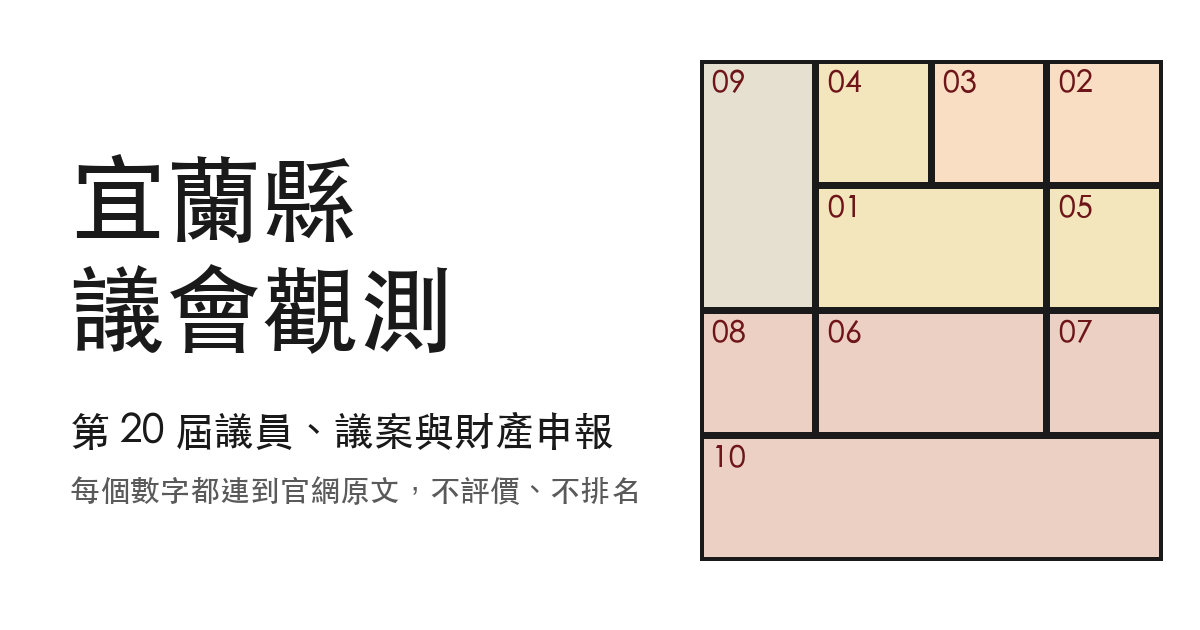
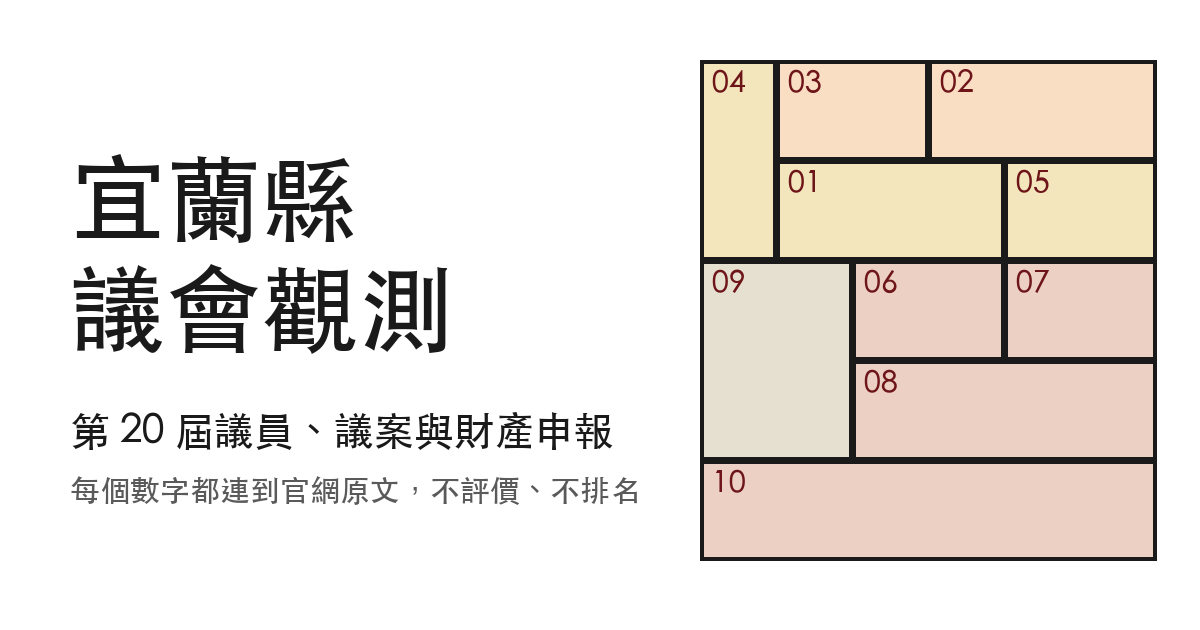
選區圖改照地理方位排列（上北右海），找議員搬回頁首，分享圖同步

Changed region(s): [[0.5858, 0.0905, 0.9867, 0.9048]]

diff --git a/site/css/site.css b/site/css/site.css
@@ -28,7 +28,7 @@
   --target: 44px;
   --control-border: #5a5a64;
   --bar-h: 10px;
-  --tile-h: 120px;
+  --tile-h: 100px;
   --measure: 40em;
 }
 
@@ -111,7 +111,7 @@ main { min-height: 100vh; padding-block: var(--s6) var(--s7); }
 .split { display: grid; gap: var(--s6); }
 @media (min-width: 900px) {
   .split { grid-template-columns: minmax(0, 1fr) minmax(0, 1fr); gap: var(--s7); }
-  :root { --tile-h: 136px; }
+  :root { --tile-h: 112px; }
   .sticky { position: sticky; top: var(--s4); align-self: start; }
 }
 .sheet {
@@ -134,6 +134,7 @@ main { min-height: 100vh; padding-block: var(--s6) var(--s7); }
   min-width: 0;
 }
 .parcel b { color: var(--accent-deep); font-size: var(--text-m); }
+.parcel span { overflow-wrap: anywhere; }
 .g-n { --g: var(--n); --g-strong: var(--n-strong); }
 .g-c { --g: var(--c); --g-strong: var(--c-strong); }
 .g-s { --g: var(--s); --g-strong: var(--s-strong); }
@@ -143,10 +144,12 @@ main { min-height: 100vh; padding-block: var(--s6) var(--s7); }
 .parcel:hover { background: var(--g-strong); }
 .parcel[aria-current] { background: var(--g-strong); outline: 3px solid var(--ink); outline-offset: -3px; }
 .strip .parcel { min-height: var(--target); }
-.p9 { grid-area: 1 / 1 / 3 / 3; } .p4 { grid-area: 1 / 3 / 2 / 4; } .p3 { grid-area: 1 / 4 / 2 / 5; } .p2 { grid-area: 1 / 5 / 2 / 7; }
-.p1 { grid-area: 2 / 3 / 3 / 5; } .p5 { grid-area: 2 / 5 / 3 / 7; }
-.p8 { grid-area: 3 / 1 / 4 / 3; } .p6 { grid-area: 3 / 3 / 4 / 5; } .p7 { grid-area: 3 / 5 / 4 / 7; }
-.p10 { grid-area: 4 / 1 / 5 / 7; }
+/* 上為北、右為海：員山在宜蘭市西邊，三星大同在羅東冬山西邊，蘇澳南澳在最南。 */
+.p4 { grid-area: 1 / 1 / 3 / 2; } .p3 { grid-area: 1 / 2 / 2 / 4; } .p2 { grid-area: 1 / 4 / 2 / 7; }
+.p1 { grid-area: 2 / 2 / 3 / 5; } .p5 { grid-area: 2 / 5 / 3 / 7; }
+.p9 { grid-area: 3 / 1 / 5 / 3; } .p6 { grid-area: 3 / 3 / 4 / 5; } .p7 { grid-area: 3 / 5 / 4 / 7; }
+.p8 { grid-area: 4 / 3 / 5 / 7; }
+.p10 { grid-area: 5 / 1 / 6 / 7; }
 .swatches { display: flex; flex-wrap: wrap; gap: var(--s1) var(--s4); margin-top: var(--s3); font-size: var(--text-s); color: var(--muted); }
 .swatches i { display: inline-block; width: 14px; height: 14px; margin-right: var(--s1); vertical-align: -2px; background: var(--g-strong); border: var(--rule) solid var(--ink); }
 .legend { margin-top: var(--s3); color: var(--muted); font-size: var(--text-s); }
@@ -261,7 +264,6 @@ main { min-height: 100vh; padding-block: var(--s6) var(--s7); }
 
 /* 搜尋 */
 .search { margin-bottom: var(--s5); max-width: 28rem; }
-.sticky .search { margin: var(--s5) 0 0; }
 .search-row { display: flex; gap: var(--s2); }
 .search-row input { flex: 1; min-width: 0; }
 .search input[type=search] { -webkit-appearance: none; appearance: none; }

diff --git a/site/js/app.js b/site/js/app.js
@@ -120,7 +120,7 @@
     var tiles = function (list) {
       return list.map(function (x) {
         return h("a", { href: "#/d/" + x.n, class: "parcel p" + x.n + " g-" + GROUP[x.n], "aria-current": x.n === d.n ? "true" : null },
-          h("b", null, pad(x.n)), SHORT[x.n]);
+          h("b", null, pad(x.n)), h("span", null, SHORT[x.n]));
       });
     };
     var main = data.districts.filter(function (x) { return x.n <= 10; });
@@ -128,15 +128,14 @@
     var ms = membersOf(d.n);
     var latest = data.bills.filter(function (b) { return b.by.some(function (p) { return ms.some(function (m) { return m.name === p; }); }); });
     return [
-      head("選區", "點一塊地，看那個選區的議員與提案。第 " + data.term + " 屆（" + data.termYears + "）。", "示意圖"),
+      head("選區", "宜蘭縣分成 13 個選區，像地籍圖一樣排在下面。點一塊地，看那個選區的議員與提案。第 " + data.term + " 屆（" + data.termYears + "）。", "示意圖"),
+      searchForm(),
       h("div", { class: "split" },
         h("section", { class: "sticky", "aria-label": "選區示意圖" },
           h("div", { class: "sheet" }, tiles(main)),
           h("p", { class: "legend-group" }, "原住民選區"),
           h("div", { class: "sheet strip" }, tiles(native)),
-          h("p", { class: "swatches" }, [["n", "北"], ["c", "中"], ["s", "南"], ["w", "西"], ["i", "原住民選區"]].map(function (g) { return h("span", { class: "g-" + g[0] }, h("i"), g[1]); })),
-          h("p", { class: "legend" }, "顏色只表示大致方位。紅色是選區號。圖形是示意，不是實際地界。"),
-          searchForm()),
+          h("p", { class: "legend" }, "上方是北，右邊是海。紅字是選區號碼。地塊只表示大概位置，不是實際地界。")),
         h("section", { class: "detail g-" + GROUP[d.n], "aria-labelledby": "dist-title" },
           h("p", { class: "no" }, "地號 " + pad(d.n), toMap()),
           h("h2", { id: "dist-title" }, "第 " + d.n + " 選區"),

diff --git a/site/index.html b/site/index.html
@@ -14,8 +14,8 @@
   <meta name="twitter:card" content="summary_large_image">
   <link rel="icon" href="data:,">
   <link rel="preload" href="data/data.json" as="fetch" crossorigin>
-  <link rel="stylesheet" href="css/site.css?v=13">
-  <script src="js/app.js?v=13" defer></script>
+  <link rel="stylesheet" href="css/site.css?v=14">
+  <script src="js/app.js?v=14" defer></script>
 </head>
 <body>
   <a class="skip" href="#main">跳到主要內容</a>

diff --git a/scripts/make_og.py b/scripts/make_og.py
@@ -6,10 +6,11 @@ ROOT = Path(__file__).resolve().parent.parent
 FONT = "/System/Library/Fonts/STHeiti Medium.ttc"
 INK, RED, RED_DEEP = (26, 26, 26), (193, 39, 45), (110, 21, 25)
 TINTS = {"n": (249, 222, 196), "c": (243, 230, 188), "s": (236, 208, 196), "w": (230, 224, 208), "i": (240, 208, 214)}
-# (number, group, col, row, colspan, rowspan) on a 4 x 4 grid, same arrangement as the site's map
-TILES = [(9, "w", 0, 0, 1, 2), (4, "c", 1, 0, 1, 1), (3, "n", 2, 0, 1, 1), (2, "n", 3, 0, 1, 1),
-         (1, "c", 1, 1, 2, 1), (5, "c", 3, 1, 1, 1), (8, "s", 0, 2, 1, 1), (6, "s", 1, 2, 2, 1),
-         (7, "s", 3, 2, 1, 1), (10, "s", 0, 3, 4, 1)]
+# (number, group, col, row, colspan, rowspan) on a 6 x 5 grid, same arrangement as the site's map
+TILES = [(4, "c", 0, 0, 1, 2), (3, "n", 1, 0, 2, 1), (2, "n", 3, 0, 3, 1),
+         (1, "c", 1, 1, 3, 1), (5, "c", 4, 1, 2, 1),
+         (9, "w", 0, 2, 2, 2), (6, "s", 2, 2, 2, 1), (7, "s", 4, 2, 2, 1),
+         (8, "s", 2, 3, 4, 1), (10, "s", 0, 4, 6, 1)]
 
 img = Image.new("RGB", (1200, 630), "white")
 d = ImageDraw.Draw(img)
@@ -18,9 +19,9 @@ d.text((70, 150), "宜蘭縣", font=big, fill=INK)
 d.text((70, 260), "議會觀測", font=big, fill=INK)
 d.text((70, 410), "第 20 屆議員、議案與財產申報", font=mid, fill=INK)
 d.text((70, 475), "每個數字都連到官網原文，不評價、不排名", font=small, fill=(90, 90, 90))
-x0, y0, cell, row = 700, 60, 105, 125
+x0, y0, cell, row = 700, 60, 76, 100
 for no, group, c, r, cs, rs in TILES:
-    box = (x0 + c * cell * 1.1, y0 + r * row, x0 + (c + cs) * cell * 1.1, y0 + (r + rs) * row)
+    box = (x0 + c * cell, y0 + r * row, x0 + (c + cs) * cell, y0 + (r + rs) * row)
     d.rectangle(box, fill=TINTS[group], outline=INK, width=4)
     d.text((box[0] + 12, box[1] + 8), f"{no:02d}", font=small, fill=RED_DEEP)
 img.save(ROOT / "site" / "og.png", optimize=True)
